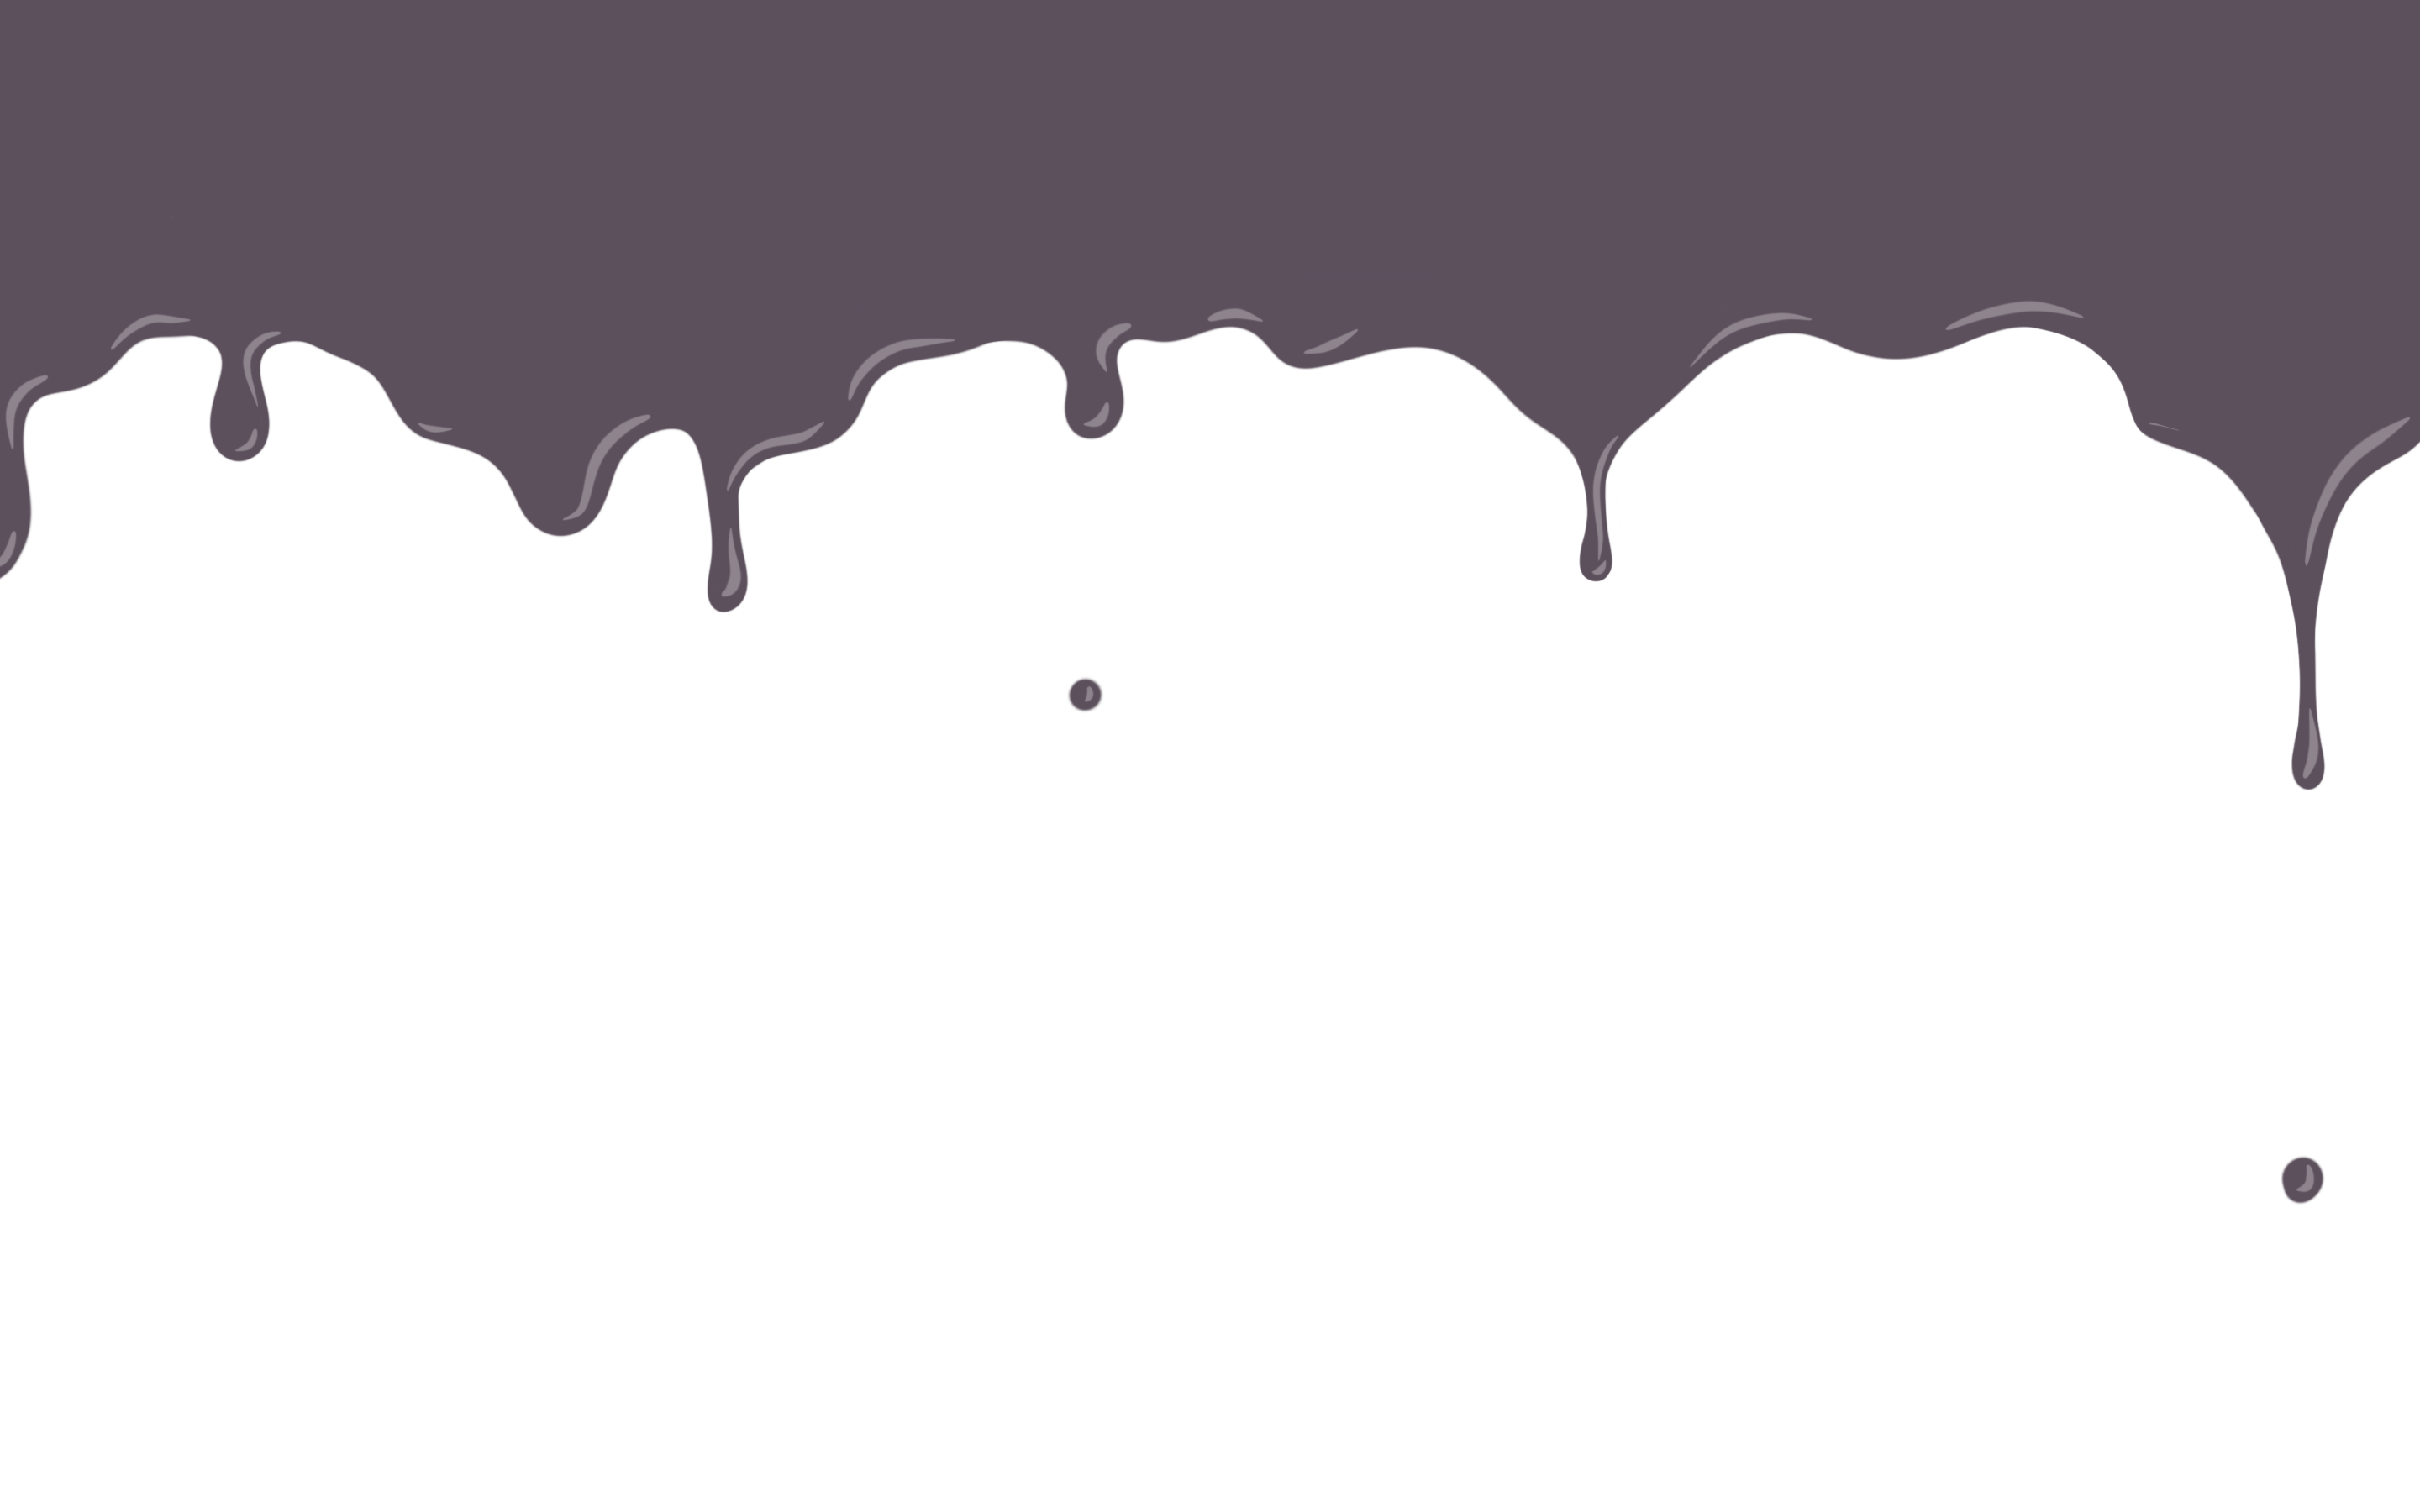
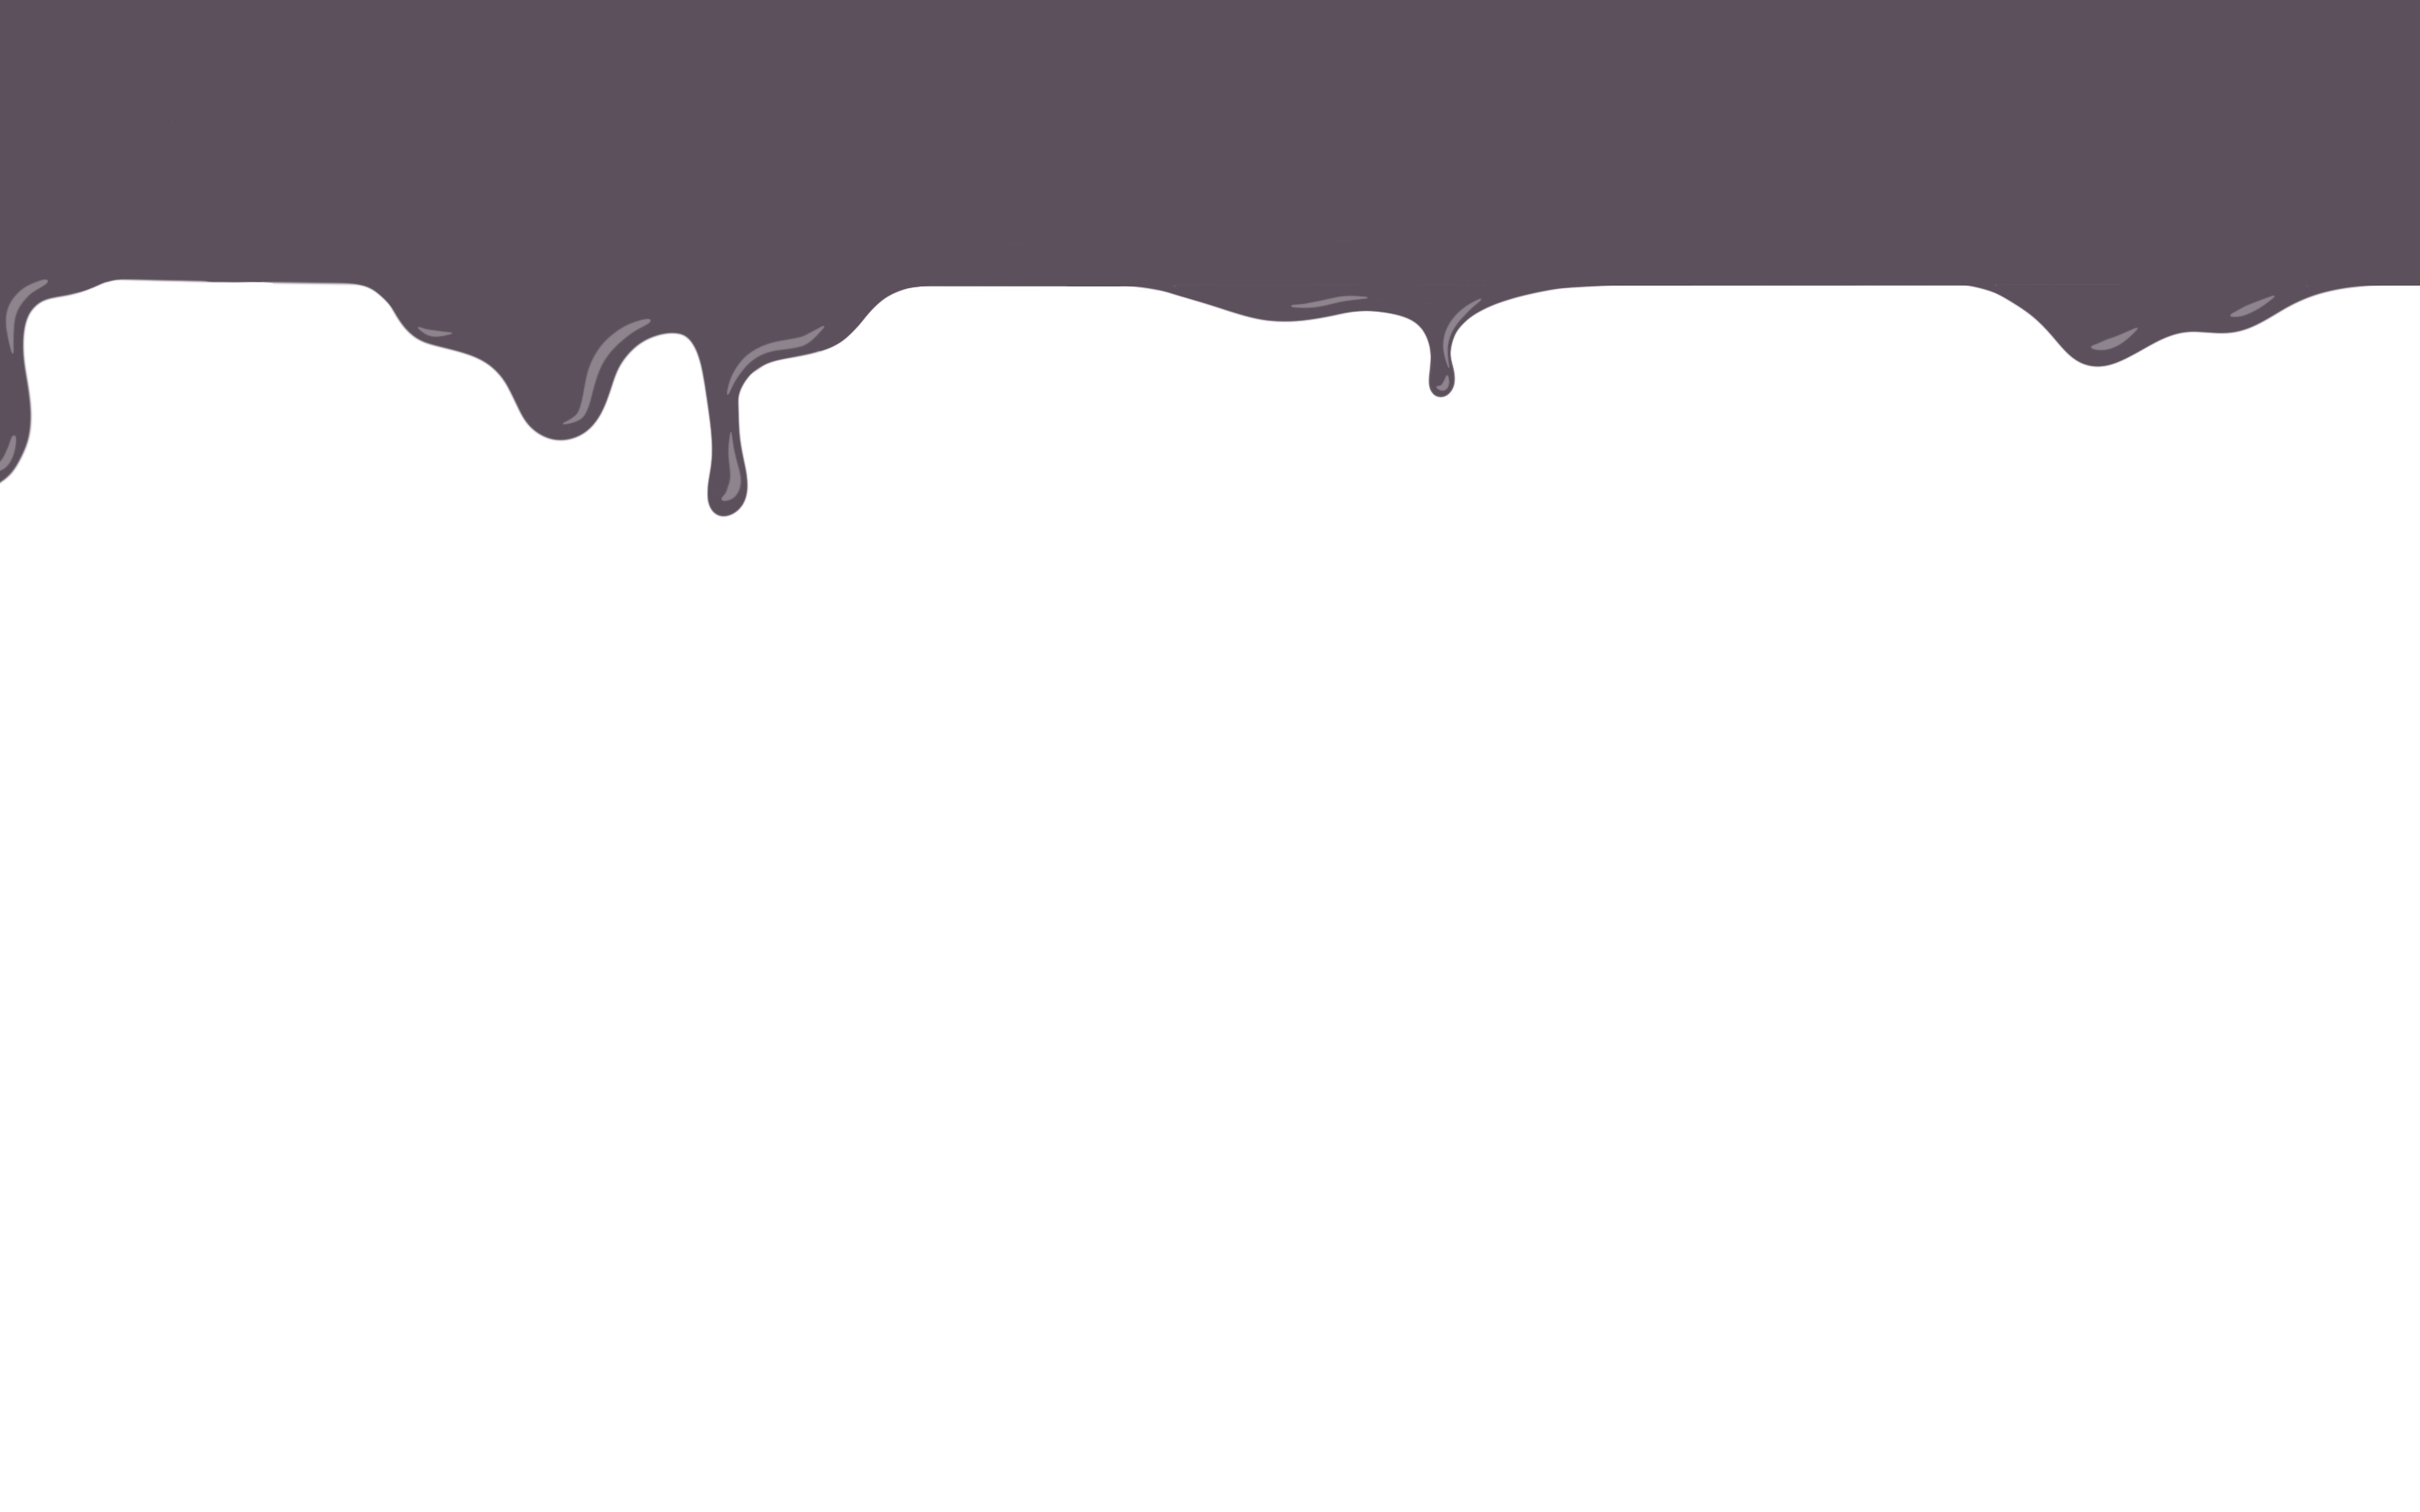
layout changes

diff --git a/style.css b/style.css
@@ -3,7 +3,7 @@ body {
   margin: 0;
   font-family: "Sofia Sans Condensed", sans-serif;
   font-weight: 500;
-  background: #d8d0d7;
+  background: #ded2db;
   color: #111;
 }
 
@@ -45,28 +45,43 @@ header {
   display: flex;
   align-items: center;
   min-height: 90vh;
-  padding-left: 25px;
-  margin-top: 120px; /* adjust this */
+  margin-left: 150px;
+  margin-top: 100px; /* adjust this */
 }
 
 /* LEFT HERO CONTENT */
+
 .hero-left {
+  position: relative;
   max-width: 500px;
   text-align: left;
+  padding-left: 20px; /* space for the line */
+}
+
+.hero-left::before {
+  content: "";
+  position: absolute;
+  left: 0;
+  top: 0;
+  width: 3px;
+  height: 85px;
+  background: #3c2b36;
+  border-radius: 2px;
 }
 
 .hero-name {
   font-size: 64px;
   margin: 0;
-  line-height: 1;
+  line-height: .85;
   letter-spacing: 3px;
+  color: #3c2b36;
 }
 
 .hero-title {
-  margin-top: 10px;
+  margin-top: 2px;
   font-size: 25px;
-  font-weight: 300;
-  color: #333;
+  font-weight: 350;
+  color: #3c2b36;
 }
 
 .hero-text {
@@ -75,7 +90,9 @@ header {
   line-height: 1.5;
   font-size: 18px;
   font-weight: 300;
-  color: #444;
+  color: #3c2b36;
+    max-width: 350px;
+    letter-spacing: 1px;
 }
 
 /* BUTTON */
@@ -86,7 +103,7 @@ header {
   border: 2px solid #9b8c99;
   border-radius: 25px;
   text-decoration: none;
-  color: black;
+  color: #3c2b36;
   margin-bottom: 20px;
 }
 
@@ -114,7 +131,7 @@ header {
 
 /* ---------------- IMAGES ---------------- */
 .smear {
-  position: fixed;
+  position: absolute;
   left: 65%;
   top: 68%;
   transform: translateY(-50%) rotate(340deg);
@@ -123,7 +140,7 @@ header {
 }
 
 video {
-  position: fixed;
+  position: absolute;
   left: 35%;
   top: 60%;
   transform: translateY(-50%) rotate(55deg);
@@ -145,6 +162,7 @@ canvas {
   width: 100%;
   min-height: 100vh;
   box-sizing: border-box;
+  margin-top: 200px;
 }
 
 .menu-card {
@@ -166,7 +184,7 @@ canvas {
   align-items: center;
   justify-content: center;
   font-size: 26px;
-  color: rgba(0, 0, 0, 0.25);
+  color: #9b8d99;
   transition: 0.3s ease;
 }
 
@@ -178,7 +196,7 @@ canvas {
   font-size: 15px;
   background: rgba(255, 255, 255, 0.85);
   padding: 5px 10px;
-  color: #111;
+  color: #9b8d99;
 }
 
 .menu-card:hover .menu-image {
@@ -208,14 +226,18 @@ canvas {
 form {
   display: flex;
   flex-direction: column;
+  margin-top: 200px;
+  margin-left: 32%;
   gap: 10px;
   padding: 20px;
-  max-width: 400px;
+  width: 80%;
+  max-width: 500px;
 }
 
 input,
 textarea {
   padding: 10px;
+  width: 100%;
 }
 
 button {
@@ -237,18 +259,38 @@ button {
 }
 
 .about-image {
-  width: 280px;
-  height: 400px;
+  width: 400px;
+  height: 600px;
   object-fit: cover;
   border-radius: 12px;
+  margin-top: 170px;
 }
 
 .about-text {
+  position: relative;
   max-width: 450px;
+  padding-left: 20px;
+   font-size: 18px;
+  font-weight: 300;
+    letter-spacing: 1px;
+}
+
+.about-text::before {
+  content: "";
+  position: absolute;
+  left: 0;
+  top: 172px;
+  bottom: 0;
+  width: 2px;
+  height: 40px;
+  background: #3c2b36;
+  border-radius: 2px;
 }
 
 .about-text h2 {
-  margin-bottom: 10px;
+  margin-top: 170px;
+   font-size: 40px;
+   letter-spacing: 2px;
 }
 
 .about-text p {
@@ -261,4 +303,13 @@ button {
   padding: 40px;
   max-width: 600px;
   color: #444;
+}
+
+header nav a {
+  text-decoration: none;
+  color: #d8d0d7;
+  font-weight: 580;
+  letter-spacing: 3px;
+  font-size: 35px;
+    font-family: "Sofia Sans Condensed", sans-serif;
 }

diff --git a/portfolio.html b/portfolio.html
@@ -3,42 +3,34 @@
   <meta charset="UTF-8">
   <title>Work</title>
   <link rel="stylesheet" href="style.css">
+      <link rel="preconnect" href="https://fonts.googleapis.com">
+  <link rel="preconnect" href="https://fonts.gstatic.com" crossorigin>
+  <link href="https://fonts.googleapis.com/css2?family=Nunito:ital,wght@0,200..1000;1,200..1000&family=Oxygen+Mono&family=Reddit+Mono:wght@200..900&family=Sofia+Sans+Condensed:ital,wght@0,1..1000;1,1..1000&display=swap" rel="stylesheet">
 </head>
 <body>
   <header>
-    <h1>My Work</h1>
+     <div class="header-left">
     <nav>
-      <a href="index.html">Home</a>
-      <a href="about.html">About</a>
-      <a href="contact.html">Contact</a>
+      <a href="index.html">HOME</a>
+      <a href="about.html">ABOUT</a>
+      <a href="contact.html">CONTACT</a>
     </nav>
+  </div>
   </header>
+   <img src="imgs/header.png" class="header-drip">
 
 <section class="portfolio-menu">
 
   <a href="photography.html" class="menu-card large">
-    <div class="menu-image">PHOTO</div>
-    <h2>Photography</h2>
+    <div class="menu-image">PHOTOGRAPHY</div>
   </a>
 
   <a href="design.html" class="menu-card small">
-    <div class="menu-image">DESIGN</div>
-    <h2>Graphic Design</h2>
-  </a>
-
-  <a href="letterpress.html" class="menu-card small">
-    <div class="menu-image">PRINT</div>
-    <h2>Letterpress</h2>
+    <div class="menu-image">GRAPHIC DESIGN</div>
   </a>
 
   <a href="threeD.html" class="menu-card wide">
-    <div class="menu-image">3D</div>
-    <h2>3D Work</h2>
-  </a>
-
-  <a href="illustration.html" class="menu-card medium">
-    <div class="menu-image">DRAW</div>
-    <h2>Illustration</h2>
+    <div class="menu-image">3D ART</div>
   </a>
 
 </section>

diff --git a/contact.html b/contact.html
@@ -3,16 +3,24 @@
     <meta charset="UTF-8" />
     <title>Contact</title>
     <link rel="stylesheet" href="style.css" />
+     <link rel="preconnect" href="https://fonts.googleapis.com">
+  <link rel="preconnect" href="https://fonts.gstatic.com" crossorigin>
+  <link href="https://fonts.googleapis.com/css2?family=Nunito:ital,wght@0,200..1000;1,200..1000&family=Oxygen+Mono&family=Reddit+Mono:wght@200..900&family=Sofia+Sans+Condensed:ital,wght@0,1..1000;1,1..1000&display=swap" rel="stylesheet">
   </head>
   <body>
-    <header>
-      <h1>Contact</h1>
-      <nav>
-        <a href="index.html">Home</a>
-        <a href="about.html">About</a>
-        <a href="portfolio.html">Work</a>
-      </nav>
-    </header>
+ <header>
+  <div class="header-left">
+    <nav>
+      <a href="index.html">HOME</a>
+      <a href="portfolio.html">GALLERY</a>
+      <a href="about.html">ABOUT</a>
+    </nav>
+  </div>
+
+  <div class="header-right"></div>
+</header>
+
+<img src="imgs/header.png" class="header-drip">
 
     <section class="contact">
       <h2>Get In Touch</h2>

diff --git a/index.html b/index.html
@@ -34,20 +34,13 @@
   <div class="hero-left">
 
     <h1 class="hero-name">KORTNEY LITTELL</h1>
-
-    <p class="hero-title">GRAPHIC DESIGNER AND STUDIO ARTIST</p>
+<p class="hero-title">GRAPHIC DESIGNER AND STUDIO ARTIST</p>
 
     <div class="hero-text">
-      This is where you can write a short intro about yourself, your work, your interests, or a statement.
+      I’m a graphic designer and studio artist based in Bloomington, Indiana, working across digital design, photography, and 3D modeling.
     </div>
 
     <a href="about.html" class="learn-btn">Learn More</a>
-
-    <div class="hero-socials">
-      <a href="https://www.instagram.com/quartni.jpg?igsh=bDhhM3N2eTY4Mzls" target="_blank">Instagram</a>
-      <a href="https://www.linkedin.com/in/kortney-littell-434667339/" target="_blank">LinkedIn</a>
-      <a href="mailto:[email redacted]">Email</a>
-    </div>
 
   </div>
 
@@ -62,6 +55,12 @@
 <video autoplay loop muted playsinline>
   <source src="masc.webm" type="video/webm">
 </video>
+
+   <div class="hero-socials">
+      <a href="https://www.instagram.com/quartni.jpg?igsh=bDhhM3N2eTY4Mzls" target="_blank">Instagram</a>
+      <a href="https://www.linkedin.com/in/kortney-littell-434667339/" target="_blank">LinkedIn</a>
+      <a href="mailto:[email redacted]">Email</a>
+    </div>
 
 <script src="sketch.js"></script>
 

diff --git a/about.html b/about.html
@@ -3,20 +3,25 @@
   <meta charset="UTF-8">
   <title>About</title>
   <link rel="stylesheet" href="style.css">
+      <link rel="preconnect" href="https://fonts.googleapis.com">
+  <link rel="preconnect" href="https://fonts.gstatic.com" crossorigin>
+  <link href="https://fonts.googleapis.com/css2?family=Nunito:ital,wght@0,200..1000;1,200..1000&family=Oxygen+Mono&family=Reddit+Mono:wght@200..900&family=Sofia+Sans+Condensed:ital,wght@0,1..1000;1,1..1000&display=swap" rel="stylesheet">
 </head>
 <body>
   <header>
-    <h1>About Me</h1>
+   <div class="header-left">
     <nav>
-      <a href="index.html">Home</a>
-      <a href="portfolio.html">Work</a>
-      <a href="contact.html">Contact</a>
+      <a href="index.html">HOME</a>
+      <a href="portfolio.html">GALLERY</a>
+      <a href="contact.html">CONTACT</a>
     </nav>
+  </div>
   </header>
+  <img src="imgs/header.png" class="header-drip">
 
   <section class="about">
     <div class="about-text">
-      <h2>Kortney Littell</h2>
+      <h2>KORTNEY LITTELL</h2>
       <p>Kortney Littell, born 2002 in Bloomington Indiana, is a graphic designer and studio artist currently studying Studio Art at Indiana University. She primarily works in graphic design, photography, and 3D computer modeling. She began her interest in graphic design and photography early in her childhood when she started experimenting with digitally manipulating her own self portraits. What started as a hobby quickly grew into a passion for visual storytelling through art.</p>
 
       <p>Her work typically deals with heavy subjects while balancing a playful tone. She is drawn to organic imagery and forms, and is often influenced by campy horror themes. In addition to creating conceptual projects and using design as a tool for storytelling, she also enjoys creating logos, packaging design, and other commercial design work. She continues to develop her portfolio and expand her skills through studio practice and experimentation while working in the Studio Art program at IU.</p>